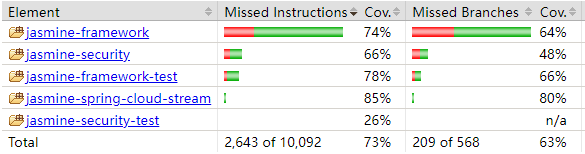
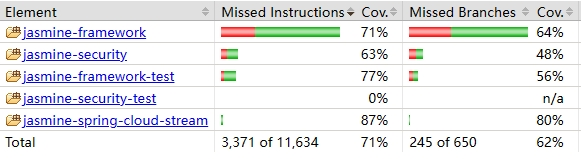
https://github.com/magicodex/MoLiHua/issues/34#issue-1865848905

Changed region(s): [[0.0, 0.026, 1.0, 0.961]]

diff --git a/README.md b/README.md
@@ -9,9 +9,9 @@
 3. 默认账户和密码是 MoLiHua/123456。
 4. 默认连接 Redis 的地址是 127.0.0.1:6379。
 
-### 单元测试覆盖率(2023.3.13)
+### 单元测试覆盖率(2023.11.13)
 
-![单元测试覆盖率](https://github.com/magicodex/MoLiHua/blob/main/doc/images/jacoco-code-coverage-report.png "单元测试覆盖率")
+![单元测试覆盖率](https://s3.bmp.ovh/imgs/2023/11/13/cea870eb92472eea.png "单元测试覆盖率")
 
 ## 使用说明
 
@@ -77,7 +77,7 @@
 |     jasmine-spring-cloud-stream      | 整合Spring Cloud Stream |
 |             jasmine-demo             | DEMO示例                |
 
-![模块划分](https://github.com/magicodex/MoLiHua/blob/main/MODULE.png "模块划分")
+![模块划分](https://s3.bmp.ovh/imgs/2023/11/13/6bace7a53f3715f6.png "模块划分")
 
 ## 开源协议
 
